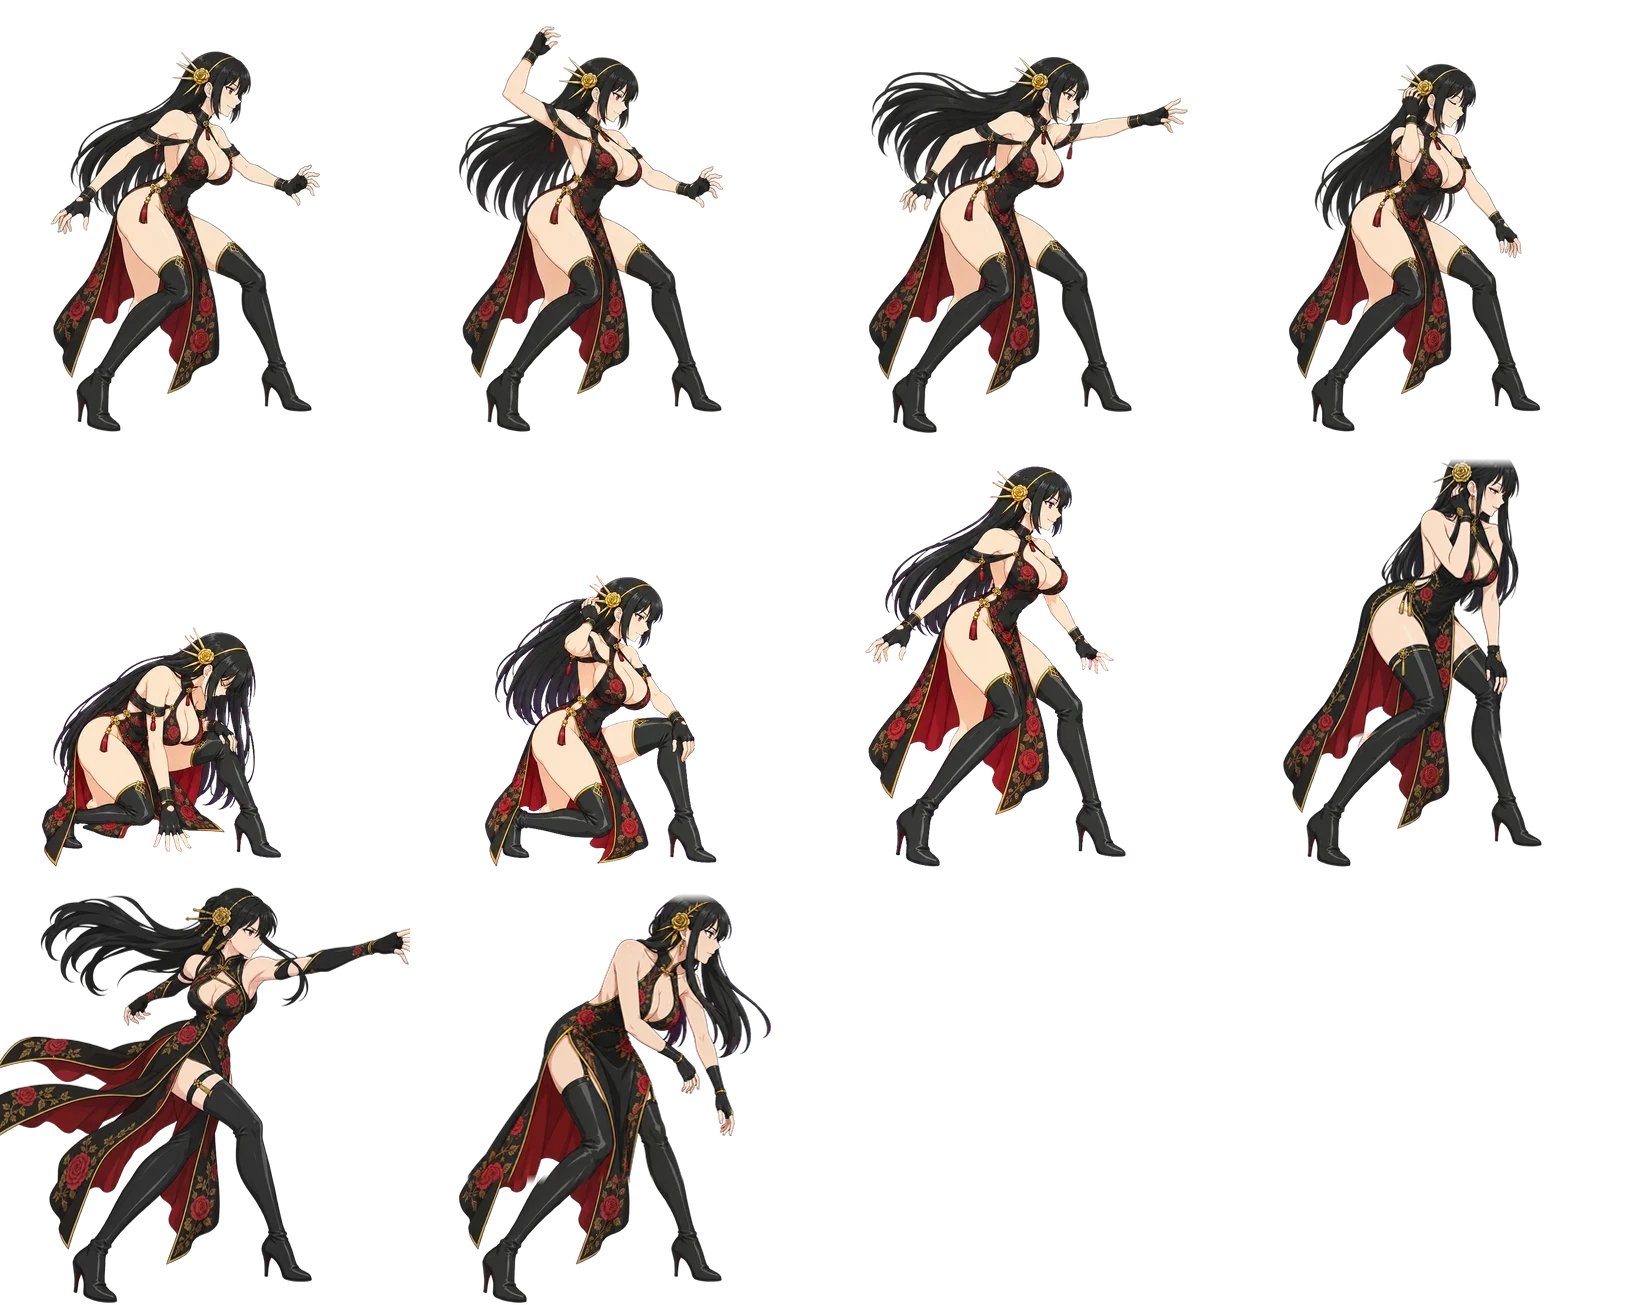
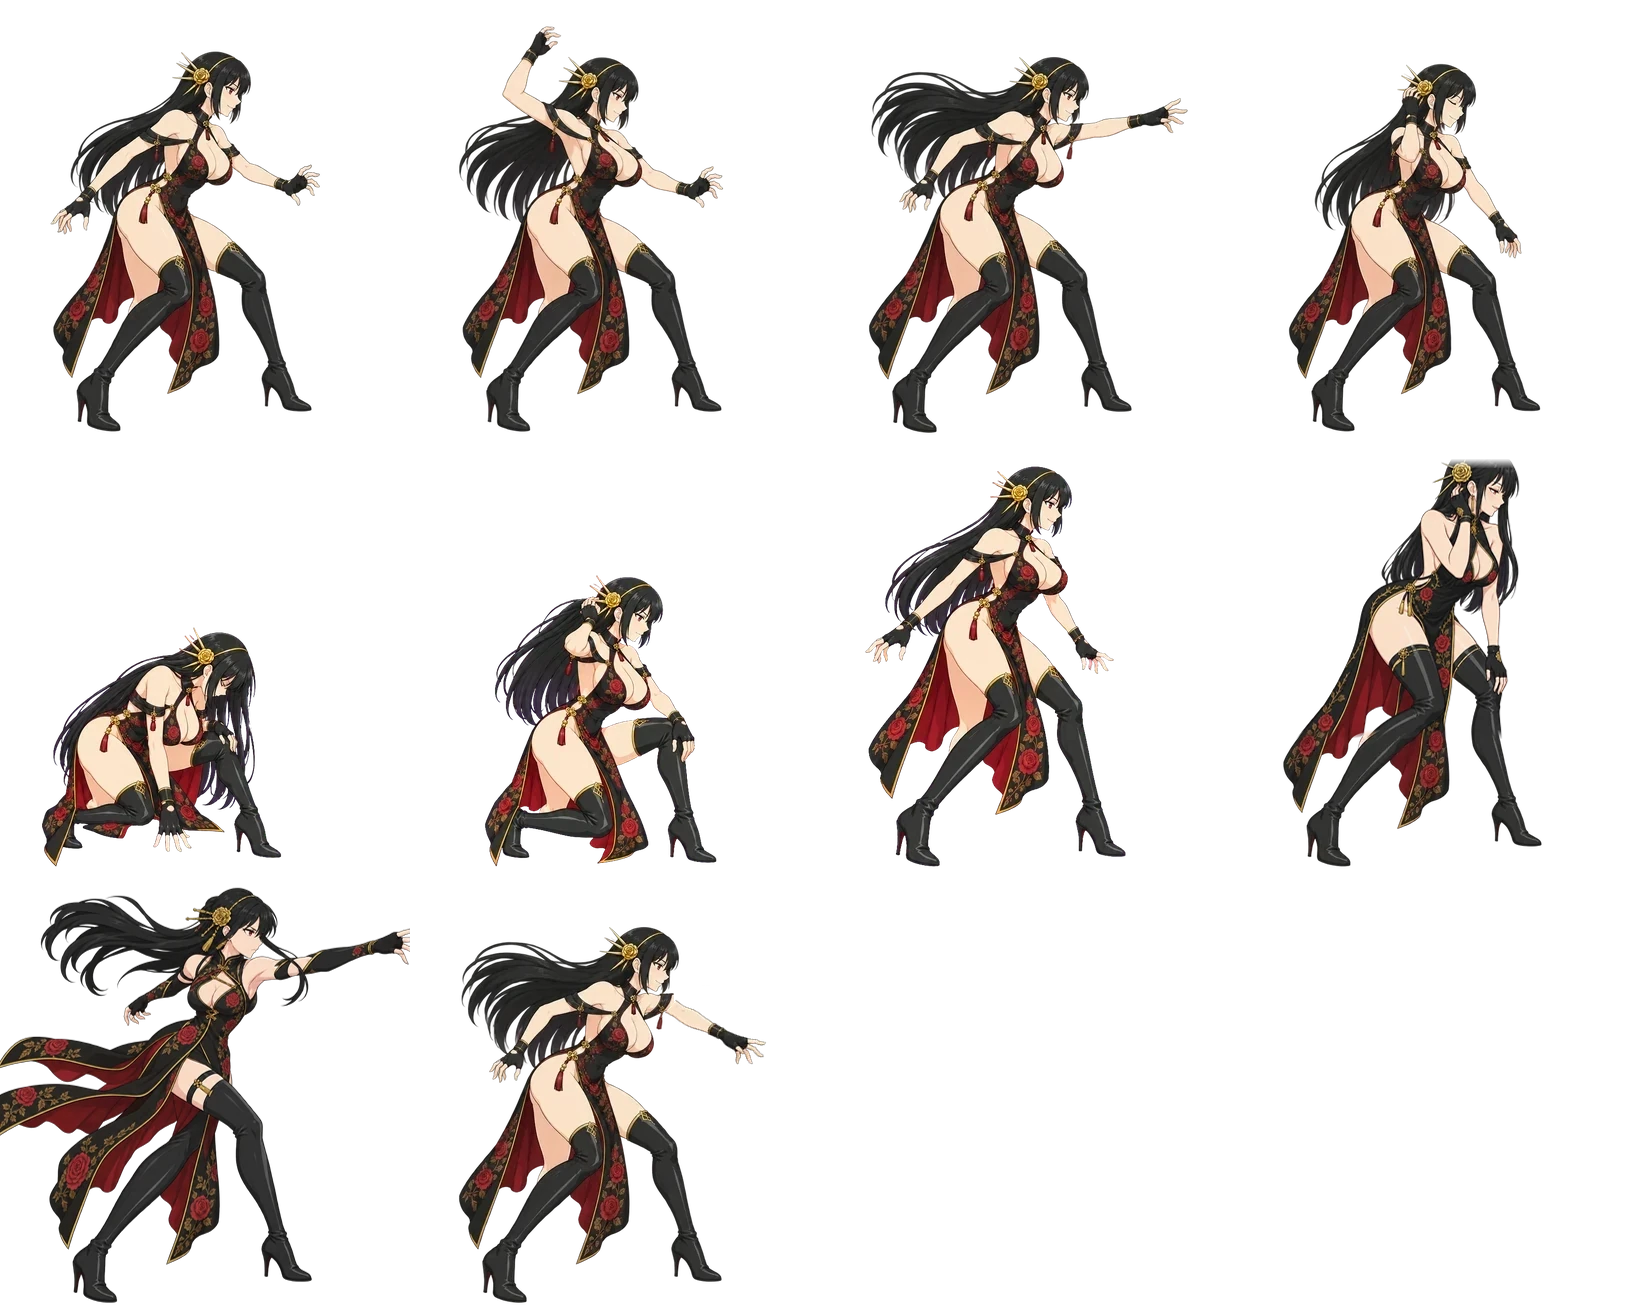
feat: G7 through 重做——throw 帧手臂绕肩往下转 40°（切件，G7_yor/armswing.py），身子逐像素同 throw；seq 接回 through
旧 through 整张重生、头顶高 30 px，769478b 停用；这张底图局部重绘被上游审核拒，改走 G8 的切件转臂。
combo_scan bestie 0 / 0 / 0、跨边 0；测试端口与正式页 sweep 0 errors；胶片 shots/polish/精闺1_G7_through切件转臂胶片.jpg。

Changed region(s): [[0.2799, 0.6743, 0.4665, 0.9195]]

diff --git a/chashouji/web/trio_bestie.js b/chashouji/web/trio_bestie.js
@@ -355,7 +355,7 @@ const TRIO_BESTIE = {
       /* 细刺刀是平面图（bestie/G7_yor/knife.py：原图 180 px 刀身提亮一档、加 3 px 深紫褐描边，186 px × 0.65 ≈ 屏幕 121 px，刀尖最细处连描边 ≈ 4.5 px）：
          手指夹着举过头顶（后排：出手点在女生头顶以上）→ 甩出去刀尖朝前直飞（aim：不自转，尖头顺着飞行方向，拿在手里也指着他） */
       atk: { kind: 'throw', item: 'knife', prop: 'assets/world/trio_g7_knife.webp', scale: 0.65,
-             seq: [['wind', 0.22], ['release', 0.06, 'fire'], ['throw', 0.22], ['follow', 0.25]],   /* through 停用（2026-10-02）：整张重生、头顶比 throw 高 30 px，跟随一闪人变高；throw 多停 0.12 s，总时长不变 */   // 精闺1 P6：release 出手瞬间 / through 跟随（bestie/tools/addframes.py）
+             seq: [['wind', 0.22], ['release', 0.06, 'fire'], ['throw', 0.1], ['through', 0.12], ['follow', 0.25]],   /* through（2026-10-02 重做）：throw 帧手臂绕肩往下转 40°（bestie/G7_yor/armswing.py），身子逐像素同 throw */   // 精闺1 P6：release 出手瞬间 / through 跟随（bestie/tools/addframes.py）
              hold: { wind: [124, 40], release: [395, 72], throw: [356, 110] }, dir: { release: -6.7 },   // dir = 手的运动方向（wind → release），dircheck 验过
              T: 0.4, arc: 0.12, spin: 0, aim: true, stretch: 0.03, gap: [0.9, 1.3], onHit: 'bounce' },
     },

diff --git a/chashouji/v14/trio/bestie/G7_yor/armswing.py b/chashouji/v14/trio/bestie/G7_yor/armswing.py
@@ -1,0 +1,18 @@
+"""G7 跟随帧（through）：throw 帧伸直的右臂绕肩往下转 ROT 度，接着出手的劲往下收（2026-10-02 总控）。
+原 through 是整张重生的人、头顶比 throw 高 30 px，已停用（769478b）；这张底图做局部重绘会被上游审核拒，所以照 G8_elsa/armswing.py：
+throw 帧里肩口以外的整段手臂都落在透明背景上，抠出来绕肩点转、原位清掉、贴回 —— 身子、头发、腿逐像素同 throw，人不会忽大忽小。
+手臂区 = 切口 x ≥ CUT 的 116~146 行（肩到护手）+ x ≥ 300 的 88~146 行（翘起来的手指）；x 300 以左、116 行以上是头发，不碰。
+输出 raw/add_through.png（整格 RGBA，换进图集 through 格）。在 v14/trio 下：python3 bestie/G7_yor/armswing.py <G7_yor.webp> <G7_yor.json>"""
+import json, os, sys
+import numpy as np
+from PIL import Image
+HERE = os.path.dirname(os.path.abspath(__file__))
+PIV, CUT, ROT = (256, 129), 264, -40           # 肩点（格内）、切口 x、转多少度（负 = 顺时针 = 往下）
+m = json.load(open(sys.argv[2])); a = Image.open(sys.argv[1]).convert('RGBA')
+cw, ch = m['cell']; C = m['cols']; i = m['frames'].index('throw')
+A = np.array(a.crop((i % C * cw, i // C * ch, i % C * cw + cw, i // C * ch + ch)))
+yy, xx = np.mgrid[:ch, :cw]
+sel = ((xx >= CUT) & (yy >= 116) & (yy < 146)) | ((xx >= 300) & (yy >= 88) & (yy < 146))
+arm = A.copy(); arm[~sel] = 0; rest = A.copy(); rest[sel] = 0
+out = Image.fromarray(rest); out.alpha_composite(Image.fromarray(arm).rotate(ROT, resample=Image.BICUBIC, center=PIV))
+out.save(os.path.join(HERE, 'raw', 'add_through.png'))
